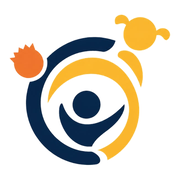
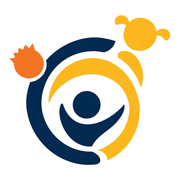
Troca o nome Geração do Saber por New Generation
O projeto passa a se chamar New Generation para facilitar a comunicação com
a comunidade internacional. Troca o logotipo (versões colorida e branca), o
favicon e todas as menções ao nome no site, nos e-mails e no WhatsApp.

diff --git a/lib/email.ts b/lib/email.ts
@@ -4,7 +4,7 @@ import "server-only";
 export async function sendEmail({ to, subject, html, replyTo }: { to: string; subject: string; html: string; replyTo?: string }) {
   const key = process.env.RESEND_API_KEY;
   if (!key) return false;
-  const from = process.env.FORMS_FROM_EMAIL ?? "Geração do Saber <onboarding@resend.dev>";
+  const from = process.env.FORMS_FROM_EMAIL ?? "New Generation <onboarding@resend.dev>";
   const res = await fetch("https://api.resend.com/emails", {
     method: "POST",
     headers: { Authorization: `Bearer ${key}`, "Content-Type": "application/json" },
@@ -24,7 +24,7 @@ export function emailLayout(title: string, body: string) {
   return `<!doctype html><html><body style="margin:0;background:#f7f8fc;font-family:Arial,Helvetica,sans-serif;color:#0f1010">
 <table role="presentation" width="100%" cellpadding="0" cellspacing="0"><tr><td align="center" style="padding:32px 16px">
 <table role="presentation" width="560" cellpadding="0" cellspacing="0" style="max-width:560px;background:#ffffff;border-radius:20px;overflow:hidden">
-<tr><td style="background:#062448;padding:24px 32px;color:#ffffff;font-size:20px;font-weight:bold">Geração do Saber <span style="font-weight:normal;font-size:13px;opacity:.75">· um projeto Cross Missions</span></td></tr>
+<tr><td style="background:#062448;padding:24px 32px;color:#ffffff;font-size:20px;font-weight:bold">New Generation <span style="font-weight:normal;font-size:13px;opacity:.75">· um projeto Cross Missions</span></td></tr>
 <tr><td style="padding:32px"><h1 style="margin:0 0 16px;font-size:24px;color:#062448">${title}</h1>${body}</td></tr>
 <tr><td style="padding:20px 32px;background:#f7f8fc;font-size:12px;color:#5b5e6b">“O que fizer a estes pequeninos a mim fizestes”</td></tr>
 </table></td></tr></table></body></html>`;

diff --git a/components/layout/SiteHeader.tsx b/components/layout/SiteHeader.tsx
@@ -81,7 +81,7 @@ export function SiteHeader() {
           )}
         >
           <nav aria-label="Principal" className="mx-auto flex h-[72px] max-w-[1240px] items-center justify-between gap-6 px-4 sm:px-6 lg:h-[84px] lg:px-8">
-            <Link href="/" aria-label="Geração do Saber, página inicial" className="relative h-[52px] w-[136px] shrink-0 lg:h-[62px] lg:w-[162px]">
+            <Link href="/" aria-label="New Generation, página inicial" className="relative h-[52px] w-[136px] shrink-0 lg:h-[62px] lg:w-[162px]">
               <Image src={site.logo.white} alt="" fill sizes="162px" loading="eager" className={cn("object-contain object-left transition-opacity duration-300", solid ? "opacity-0" : "opacity-100")} />
               <Image src={site.logo.color} alt="" fill sizes="162px" loading="eager" className={cn("object-contain object-left transition-opacity duration-300", solid ? "opacity-100" : "opacity-0")} />
             </Link>
@@ -155,7 +155,7 @@ export function SiteHeader() {
             >
               <div className="flex items-center justify-between">
                 <div className="relative h-[50px] w-[130px]">
-                  <Image src={site.logo.white} alt="Geração do Saber" fill sizes="130px" className="object-contain object-left" />
+                  <Image src={site.logo.white} alt="New Generation" fill sizes="130px" className="object-contain object-left" />
                 </div>
                 <button type="button" onClick={() => setOpen(false)} aria-label="Fechar menu" className="grid size-11 place-items-center rounded-[10px] hover:bg-white/10">
                   <X className="size-6" />

diff --git a/components/donation/DonationWizard.tsx b/components/donation/DonationWizard.tsx
@@ -373,7 +373,7 @@ function MethodPanel({ currency, method, amount }: { currency: Currency; method:
     return (
       <div className="grid items-start gap-6 md:grid-cols-[auto_1fr]">
         <div className="mx-auto rounded-2xl bg-white p-4 shadow-[var(--shadow-card)]">
-          <QRCodeSVG value={pixBRL.code} size={184} level="M" fgColor="#0F1010" title="QR Code Pix do Geração do Saber" />
+          <QRCodeSVG value={pixBRL.code} size={184} level="M" fgColor="#0F1010" title="QR Code Pix do New Generation" />
         </div>
         <div className="space-y-3">
           <h3 className="font-display text-2xl font-black text-secondary">Doar via Pix</h3>
@@ -446,7 +446,7 @@ function MethodPanel({ currency, method, amount }: { currency: Currency; method:
 function ThanksStep({ onRestart }: { onRestart: () => void }) {
   const [shared, setShared] = useState(false);
   async function share() {
-    const data = { title: "Geração do Saber", text: "Acabei de apoiar o Geração do Saber. Juntos fazemos a diferença no mundo de cada criança!", url: site.url };
+    const data = { title: "New Generation", text: "Acabei de apoiar o New Generation. Juntos fazemos a diferença no mundo de cada criança!", url: site.url };
     if (navigator.share) {
       await navigator.share(data).catch(() => null);
     } else {

diff --git a/content/site.ts b/content/site.ts
@@ -1,11 +1,11 @@
 export const site = {
-  name: "Geração do Saber",
+  name: "New Generation",
   /** Organização responsável pelo projeto */
   parent: "Cross Missions",
   legalName: "Associação Cross Missions",
   url: process.env.NEXT_PUBLIC_SITE_URL ?? "https://geracaodosaber.vercel.app",
   description:
-    "Geração do Saber, projeto da Cross Missions na Guiné-Bissau: educação infantil, alimentação, saúde, formação de professores e apadrinhamento de crianças.",
+    "New Generation, projeto da Cross Missions na Guiné-Bissau: educação infantil, alimentação, saúde, formação de professores e apadrinhamento de crianças.",
   phone: "+55 11 98927-0283",
   phoneHref: "tel:+5511989270283",
   email: "contato.cmissions@gmail.com",
@@ -16,10 +16,10 @@ export const site = {
   whatsapp:
     "https://api.whatsapp.com/send/?phone=5511989270283&text=Ol%C3%A1%21+Vim+do+seu+site%21",
   logo: {
-    color: "/img/marca/geracao-do-saber-v2.png",
-    white: "/img/marca/geracao-do-saber-v2-branco.png",
+    color: "/img/marca/new-generation.png",
+    white: "/img/marca/new-generation-branco.png",
     /** proporção largura/altura do logo */
-    ratio: 1000 / 384,
+    ratio: 1000 / 380,
   },
   verse: "O que fizer a estes pequeninos a mim fizestes",
 } as const;

diff --git a/app/page.tsx b/app/page.tsx
@@ -19,9 +19,9 @@ import { pillars } from "@/content/pillars";
 import { site } from "@/content/site";
 
 export const metadata: Metadata = {
-  title: { absolute: "Geração do Saber | Juntos fazemos a diferença no mundo de cada criança" },
+  title: { absolute: "New Generation | Juntos fazemos a diferença no mundo de cada criança" },
   description:
-    "Apadrinhe uma criança, doe ou seja voluntário na Guiné-Bissau. O Geração do Saber, projeto da Cross Missions, leva educação, alimentação, saúde e fé a comunidades vulneráveis nos países de língua portuguesa.",
+    "Apadrinhe uma criança, doe ou seja voluntário na Guiné-Bissau. O New Generation, projeto da Cross Missions, leva educação, alimentação, saúde e fé a comunidades vulneráveis nos países de língua portuguesa.",
   alternates: { canonical: "/" },
 };
 

diff --git a/components/layout/SiteFooter.tsx b/components/layout/SiteFooter.tsx
@@ -13,7 +13,7 @@ export function SiteFooter() {
       <Container className="relative grid gap-12 py-16 md:grid-cols-[1.3fr_1fr_1fr] lg:py-20">
         <div className="max-w-sm">
           <div className="relative h-[77px] w-[200px]">
-            <Image src={site.logo.white} alt="Geração do Saber" fill sizes="200px" className="object-contain object-left" />
+            <Image src={site.logo.white} alt="New Generation" fill sizes="200px" className="object-contain object-left" />
           </div>
           <p className="mt-6 text-[15px] leading-relaxed text-white/75">
             Escolas, alimentação, saúde e esperança para crianças e famílias na Guiné-Bissau.

diff --git a/components/donation/SponsorFlow.tsx b/components/donation/SponsorFlow.tsx
@@ -88,7 +88,7 @@ export function SponsorFlow({ plan }: { plan: Plan }) {
                 {method === "pix" ? (
                   <div className="grid items-start gap-6 md:grid-cols-[auto_1fr]">
                     <div className="mx-auto rounded-2xl bg-white p-4 shadow-[var(--shadow-card)]">
-                      <QRCodeSVG value={pixBRL.code} size={168} level="M" title="QR Code Pix do Geração do Saber" />
+                      <QRCodeSVG value={pixBRL.code} size={168} level="M" title="QR Code Pix do New Generation" />
                     </div>
                     <div className="space-y-3">
                       <p className="text-[14px] text-muted">

diff --git a/app/sobre-nos/page.tsx b/app/sobre-nos/page.tsx
@@ -13,7 +13,7 @@ import { Reveal } from "@/components/motion";
 export const metadata: Metadata = {
   title: "Quem Somos",
   description:
-    "Conheça o Geração do Saber e a Cross Missions: desde 2018 referência em transformação social nos países de língua portuguesa, com escolas, alimentação e saúde na Guiné-Bissau.",
+    "Conheça o New Generation e a Cross Missions: desde 2018 referência em transformação social nos países de língua portuguesa, com escolas, alimentação e saúde na Guiné-Bissau.",
   alternates: { canonical: "/sobre-nos" },
   openGraph: { images: ["/img/fotos/muro-pintado.jpg"] },
 };

diff --git a/app/layout.tsx b/app/layout.tsx
@@ -12,7 +12,7 @@ const montserrat = Montserrat({ variable: "--font-montserrat", subsets: ["latin"
 
 export const metadata: Metadata = {
   metadataBase: new URL(site.url),
-  title: { default: "Geração do Saber | Juntos fazemos a diferença no mundo de cada criança", template: "%s | Geração do Saber" },
+  title: { default: "New Generation | Juntos fazemos a diferença no mundo de cada criança", template: "%s | New Generation" },
   description: site.description,
   applicationName: site.name,
   openGraph: {

diff --git a/app/api/auth/link/route.ts b/app/api/auth/link/route.ts
@@ -44,7 +44,7 @@ export async function POST(req: Request) {
   const code = data.properties.email_otp;
   const sent = await sendEmail({
     to: email,
-    subject: `${code} é o seu código de acesso — Geração do Saber`,
+    subject: `${code} é o seu código de acesso — New Generation`,
     html: emailLayout(
       "Seu acesso à área do padrinho",
       `<p style="font-size:15px;line-height:1.6">Toque no botão para entrar. O acesso vale por 1 hora e só pode ser usado uma vez.</p>

diff --git a/lib/whatsapp.ts b/lib/whatsapp.ts
@@ -9,5 +9,5 @@ export function formToWhatsapp(type: FormType, data: Record<string, string | und
   const lines = Object.entries(data)
     .filter(([k, v]) => v && k !== "moeda")
     .map(([k, v]) => `${fieldLabels[k as FieldName] ?? k}: ${v}`);
-  return waLink(`Olá! Vim do site do Geração do Saber.\n*${formTitles[type]}*\n${lines.join("\n")}`);
+  return waLink(`Olá! Vim do site do New Generation.\n*${formTitles[type]}*\n${lines.join("\n")}`);
 }

diff --git a/app/globals.css b/app/globals.css
@@ -1,7 +1,7 @@
 @import "tailwindcss";
 
 @theme {
-  /* Cores da marca Geração do Saber (extraídas do logo) */
+  /* Cores da marca New Generation (extraídas do logo) */
   --color-primary: #062448;      /* azul-marinho do logo: títulos e textos de destaque */
   --color-secondary: #0b3260;    /* azul-marinho um tom acima: fundos de seção */
   --color-navy: #041a35;         /* azul-marinho profundo: rodapé e sobreposições */
